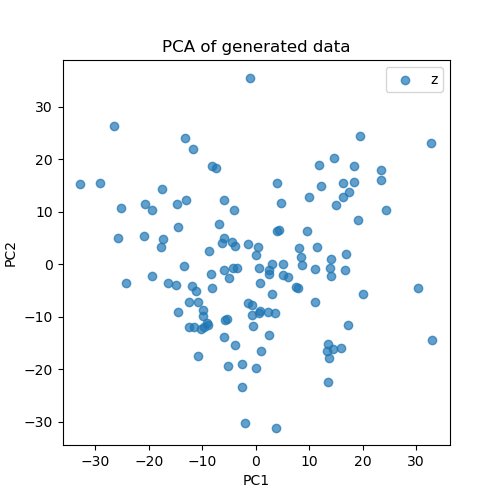
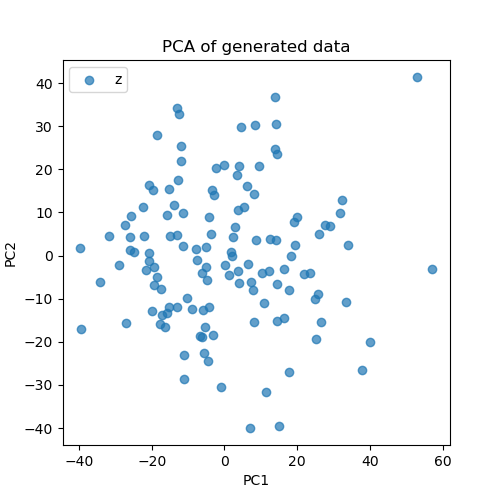
tried with 200 epochs

diff --git a/code/vae_trainer.py b/code/vae_trainer.py
@@ -48,7 +48,7 @@ def trainer(BETA, train_dataloader, val_dataloader, lr=1e-5, TRAIN_EPOCHS=20, el
     # NN structure
     input_dim         = 18965 # gtex-gene features (can be reduced/capped for quicker tests if needed)
     latent_dim        = 256
-    hidden_layers     = [1024, 512]
+    hidden_layers     = [512, 512]
 
     #### Model setup ####
     from wohlert.models import VariationalAutoencoder
@@ -215,11 +215,11 @@ if __name__ == '__main__':
     use_cuda = True and torch.cuda.is_available()
     pass_through_data = torch.tensor(pass_through_data, dtype=torch.float32, device='cuda' if use_cuda else 'cpu')
     
-    betas = [1, 0.5, 1e-1, 1.5e-2, 1e-2, 1e-3, 1e-4]
+    betas = [5e-2, 1e-2, 1e-3, 1e-4]
     for beta in betas:
         result_path = f"results/beta_{beta}"
         os.makedirs(result_path, exist_ok=True)
-        model = trainer(BETA=beta, train_dataloader=train_dataloader, val_dataloader=val_dataloader, lr=1e-5, TRAIN_EPOCHS=100, elbo_gain=1, use_cuda=True)
+        model = trainer(BETA=beta, train_dataloader=train_dataloader, val_dataloader=val_dataloader, lr=1e-5, TRAIN_EPOCHS=200, elbo_gain=1, use_cuda=True)
         torch.save(model, f"{result_path}/vae_model.pt")
         generated_data, fig = generate_data_and_plot(model)
         fig.savefig(f"{result_path}/generated_data.png")

diff --git a/code/m1_trainer.py b/code/m1_trainer.py
@@ -10,11 +10,11 @@ from wohlert.models import VariationalAutoencoder
 from torch.utils.data import WeightedRandomSampler, DataLoader
 
 
-TRAIN_EPOCHS = 40
-LEARNING_RATE = 1e-4
+TRAIN_EPOCHS = 100
+LEARNING_RATE = 1e-5
 MAX_FEATURE_VALUE = 1
 
-latent_dim = 16
+latent_dim = 256
 reg_hidden_layers = [2048, 2048]
 out_features = 156958
 
@@ -30,7 +30,7 @@ validation_dataloader = DataLoader(gtexDset_val, batch_size=64, num_workers=2, p
 use_cuda = True and torch.cuda.is_available()
 
 print(f"{use_cuda=}")
-vae_path = "trained_models/vae_model_109.pt"
+vae_path = "results/beta_0.001/vae_model.pt"
 vae_model = torch.load(vae_path)
 
 regressor_model = Regressor([latent_dim, reg_hidden_layers, out_features])
